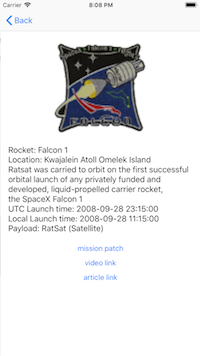
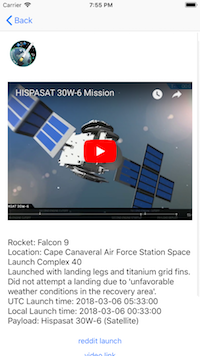
Embedded preview of YouTube video.

diff --git a/SpaceX/Details/DetailsViewController.swift b/SpaceX/Details/DetailsViewController.swift
@@ -8,13 +8,14 @@
 
 import UIKit
 import SafariServices
+import YouTubePlayer
 
 class DetailsViewController: UIViewController {
 
     @IBOutlet weak var imageView: UIImageView!
     @IBOutlet weak var label: UILabel!
-    @IBOutlet weak var linksContainer: UIView!
 
+    @IBOutlet weak var videoView: YouTubePlayerView!
     @IBOutlet weak var stackView: UIStackView!
     var model: Launch?
     var image: UIImage?
@@ -61,6 +62,12 @@ class DetailsViewController: UIViewController {
                     button.addTarget(self, action: #selector(buttonTouchUp), for: .touchUpInside)
                     stackView.addArrangedSubview(button)
                 }
+                if let videoLink = links.first(where: {
+                    return $0.name == "video_link" && $0.url.contains("www.youtube.com")
+                }), let url = URL(string: videoLink.url) {
+                    videoView.loadVideoURL(url)
+                }
+
             }
 
         }

diff --git a/README.md b/README.md
@@ -4,7 +4,19 @@ Simple iOS client application for consuming SpaceX API.
 
 ### Dependencies
 
-**No dependencies!** Using only iOS SDK.
+To compile and run the project install the following:
+- **Xcode**
+- **CocoaPods**
+- **YouTubePlayer**
+
+Commands that may be useful:
+```shell
+sudo gem install cocoapods
+git clone https://github.com/adamgic/SpaceX.git
+cd SpaceX/
+pod install
+```
+
 
 ## Description
 
@@ -17,7 +29,7 @@ iOS client application, consuming API from SpaceX available [here](https://api.s
 - **Decodable** protocol to decode JSON
 - **XCTest** for Unit Testing and UI Testing
 - use of **DateFormatter** to get local time and UTC
-- **Foundation** and **swift 4**
+- **Foundation** and **Swift 4**
 
 ### Features
 
@@ -41,6 +53,7 @@ Details view of a launch providing information about
 - local launch time
 - payloads
 - links placed in **UIStackView** dynamically, allowing user to browse the content
+- embedded preview of YouTube video
 
 ![details](doc/details.png)
 
